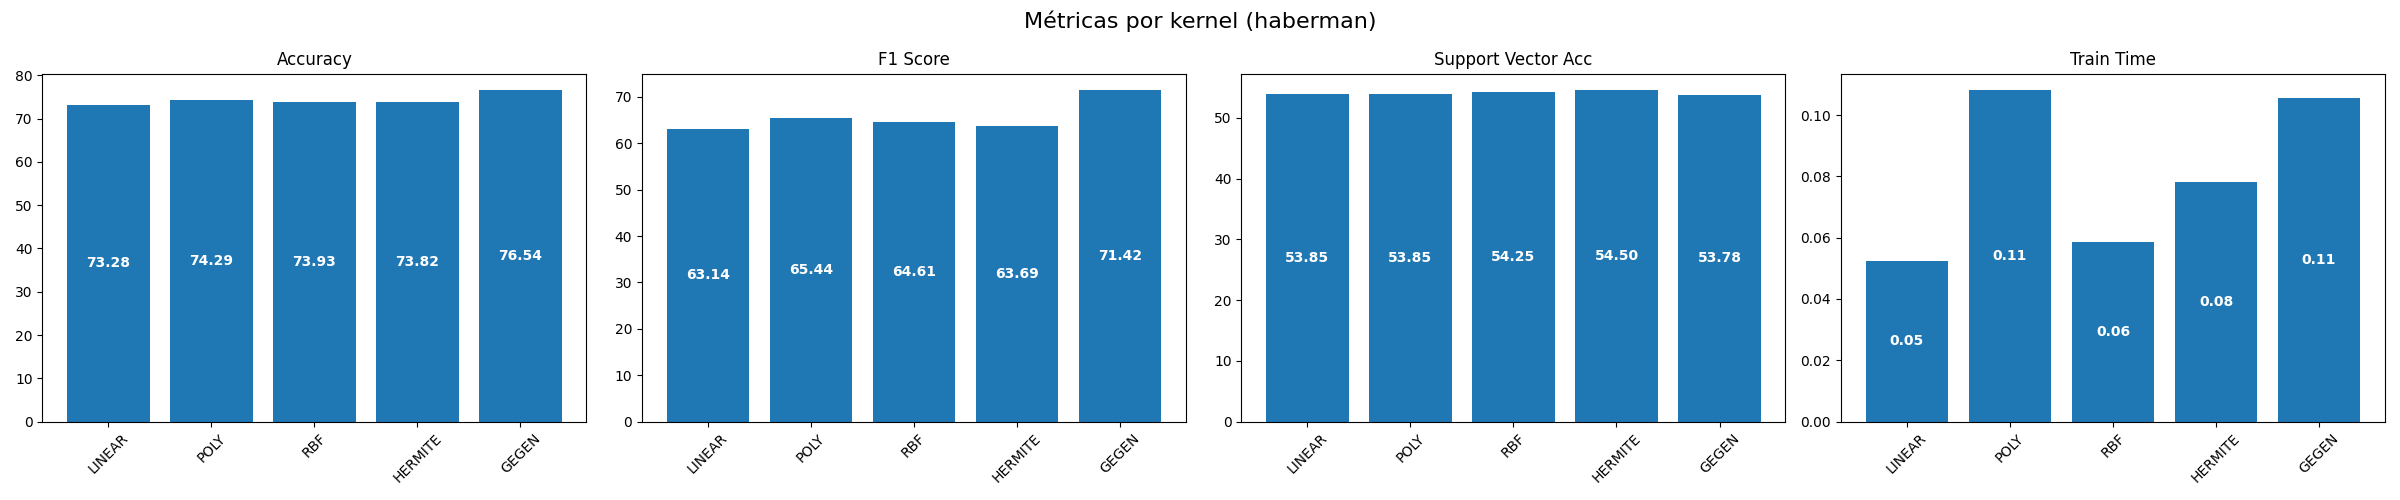
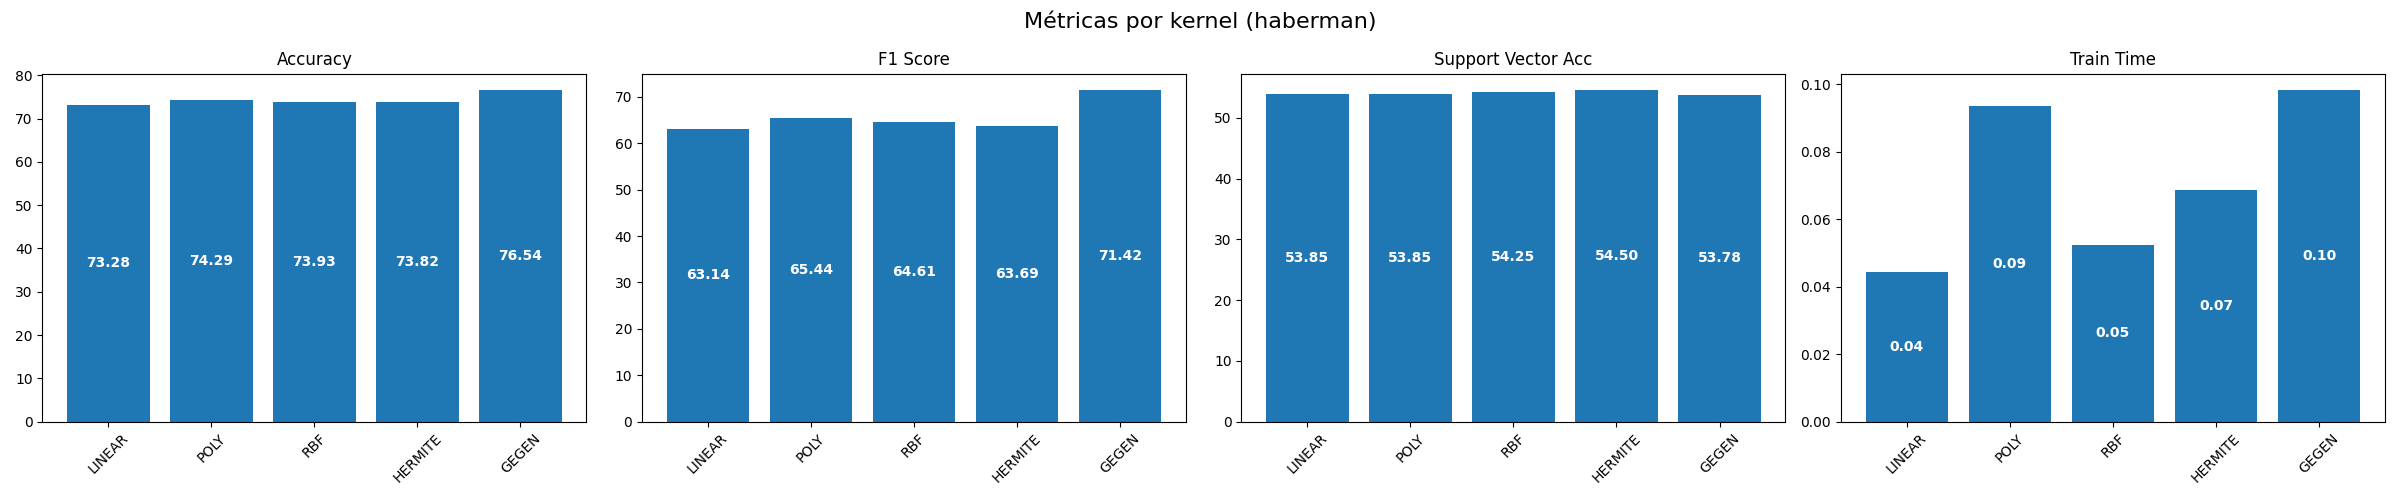
modified:   Data/__pycache__/loader.cpython-311.pyc 	modified:   Kernels/__pycache__/all_kernels.cpython-311.pyc 	modified:   Model/__pycache__/train.cpython-311.pyc 	modified:   config.json 	modified:   experiments.py 	modified:   results/plots/haberman_metrics.png

diff --git a/experiments.py b/experiments.py
@@ -41,9 +41,9 @@ def main(config_path: str = "config.json"):
     # --- 3. Construir lista de kernels ---
     svm_cfg = cfg['svm']
     kernels = build_kernels(
-        hermite_degree=max(cfg['svm']['custom_hermite']['degree']),
-        gegen_degree=max(cfg['svm']['custom_gegen']['degree']),
-        gegen_alpha=cfg['svm']['custom_gegen']['alpha'][0]  # usa el primero como valor por defecto
+        hermite_degree=cfg['svm']['custom_hermite']['degree'],
+        gegen_degree=cfg['svm']['custom_gegen']['degree'],
+        gegen_alpha=cfg['svm']['custom_gegen']['alpha']  # usa el primero como valor por defecto
     )
 
     # --- 4. Iterar datasets × kernels ---
@@ -62,7 +62,7 @@ def main(config_path: str = "config.json"):
             metrics = train_svm(
                 X, y,
                 kernel_func=func,
-                C=svm_cfg['C'][0],
+                C=svm_cfg['C'],
                 cv=cfg['cross_validation']['n_splits'],
                 n_jobs=cfg['cross_validation']['n_jobs']
             )
